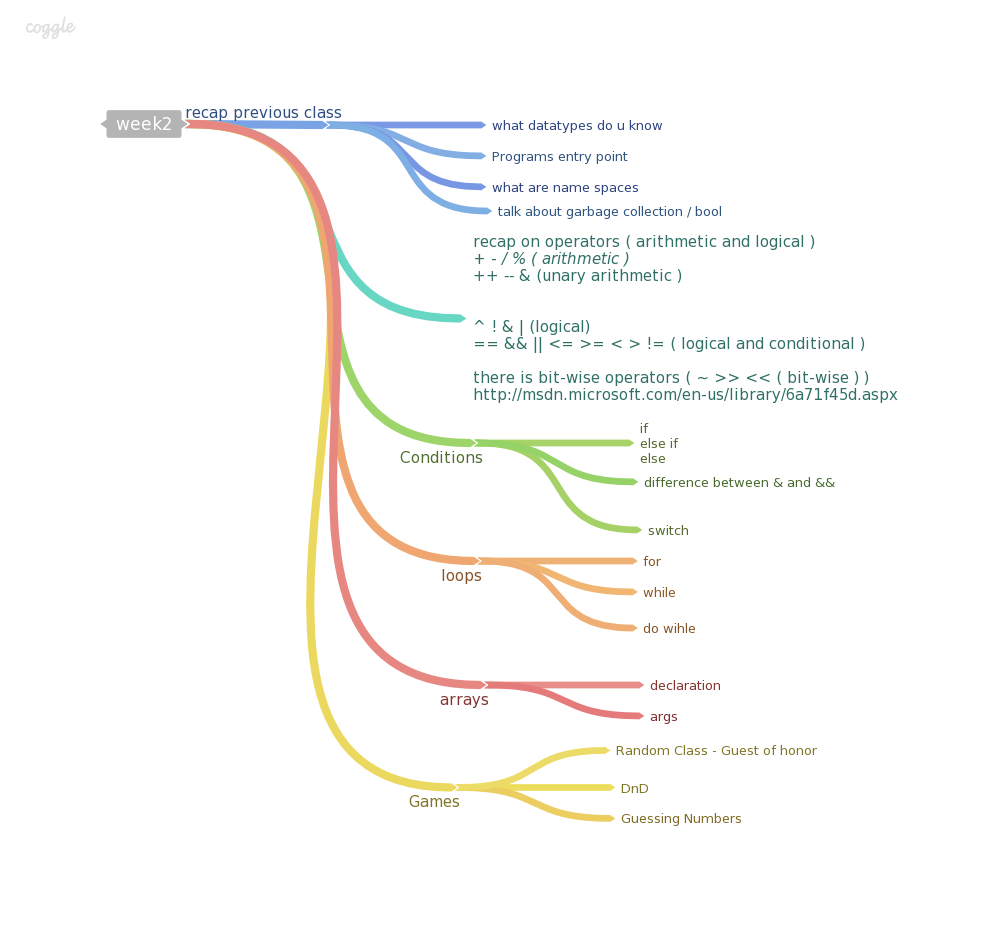
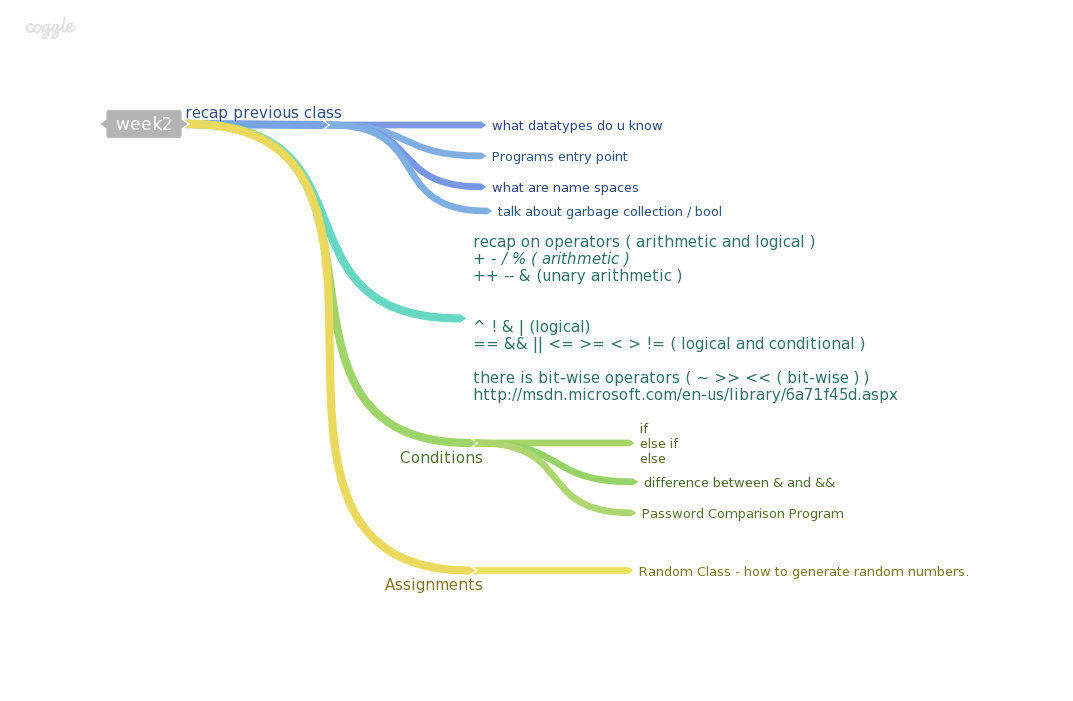
updated weeks

Changed region(s): [[0.0928, 0.1198, 0.8972, 0.8987], [0.3713, 0.689, 0.4022, 0.719], [0.0309, 0.03, 0.0619, 0.0599]]

diff --git a/week2/code.cs b/week2/code.cs
@@ -74,73 +74,6 @@ namespace week_2
 				Console.WriteLine("At least one of the methods returned false.");
 			}
 			
-			
-			
-			//switch cases
-			
-			char caseSwitch = 'A';
-			switch (caseSwitch)
-			{
-			    case 'A':
-			        Console.WriteLine("Case 1");
-			        break;
-			    case 'B':
-			        Console.WriteLine("Very good");
-			        break;
-				case 'C':
-					Console.WriteLine("Good");
-					break;    
-				default:
-			        Console.WriteLine("Default case");
-			        break;
-			}
-			
-			
-			
-			
-
-
-            //For Loops
-            for (int i = 0; i < 10; i++)
-            {
-                Console.WriteLine(i);
-            }
-
-            int z = 10;
-
-			
-			
-            //While Loops
-            while (z > 0)
-            {
-                z--;
-                Console.WriteLine(z);
-            };
-
-
-            //Do While
-            do
-            {
-                z++;
-                Console.WriteLine(z);
-            } while (z < 10);
-
-			
-			
-			
-			//basic arrays
-
-            int[] int_array  = {1,2,3,4};
-            int[] int_array2 = new int[100];
-
-
-
-            //Args
-            for (int i = 0; i < args.Length; i++)
-            {
-                Console.WriteLine(args[i]);
-            }
-			
         }
 		
 		static bool Method1()

diff --git a/week3/code.cs b/week3/code.cs
@@ -1,0 +1,75 @@
+using System;
+
+namespace week_2
+{
+    class Program
+    {
+        static void Main(string[] args)
+        {
+           //switch cases
+			
+			char caseSwitch = 'A';
+			switch (caseSwitch)
+			{
+			    case 'A':
+			        Console.WriteLine("Case 1");
+			        break;
+			    case 'B':
+			        Console.WriteLine("Very good");
+			        break;
+				case 'C':
+					Console.WriteLine("Good");
+					break;    
+				default:
+			        Console.WriteLine("Default case");
+			        break;
+			}
+
+			
+            //For Loops
+            for (int i = 0; i < 10; i++)
+            {
+                Console.WriteLine(i);
+            }
+
+            int z = 10;
+
+			
+			
+            //While Loops
+            while (z > 0)
+            {
+                z--;
+                Console.WriteLine(z);
+            };
+
+
+            //Do While
+            do
+            {
+                z++;
+                Console.WriteLine(z);
+            } while (z < 10);
+
+			
+			
+			
+			//basic arrays
+
+            int[] int_array  = {1,2,3,4};
+            int[] int_array2 = new int[100];
+
+
+
+            //Args
+            for (int i = 0; i < args.Length; i++)
+            {
+                Console.WriteLine(args[i]);
+            }
+			
+        }
+		
+    }
+}
+
+        

diff --git a/week2/assignments.md b/week2/assignments.md
@@ -1,15 +1,18 @@
 #Assignments
 
 ## Resturant Calculator :
-2. reads the names of friends. [ 4 friends ].
-3. read meal coast for each friend. 
-5. read service costs.
-6. read the amount of tips to leave.
-7. print each of your friends name , and total costs.
+1. reads the names of friends. [ 4 friends ].
+2. read meal coast for each friend. 
+3. read service costs.
+4. read the amount of tips to leave.
+5. print each of your friends name , and total costs.
+6. write values you used ("friends names , prices") and the result of the calculation in a text file , and send it with the code.
 
 **use floats for all prices**
 
 total cost = meal cost + ( tax % of the meal cost ) + (service + tips) divided by number of friends.
+
+
 
 
 ##How lucky is your computer? :

diff --git a/week2/README.md b/week2/README.md
@@ -6,22 +6,14 @@
 ##Conditions
 - If , if else , else.
 - Diffrence between & and &&.
-- Switch.
+- Password Comparison Program.
 
-##loops
-- for , while , do while .
 
-##arrays
-- basic arrays.
-- args 
-
-## Games 
-guess the number.
-simple DnD.
+- How to generate a random number.
 
 ##Things mentioned but not fully explained
 - methods.
-- Random class.
+- Random class. 
 - static.
 
 ![alt text](https://raw.github.com/TheNightPhoenix/AdvancedProgramming/master/week2/map.png "Class Mind Map")

diff --git a/week3/README.md b/week3/README.md
@@ -1,0 +1,28 @@
+#Week 3
+
+- Recap prev class.
+
+##Conditions
+- Switch
+
+##Loops
+- for loop.
+- while loop.
+- do while.
+
+##Arrays
+- Declaration.
+- args.
+
+##CMD
+- opening / running application from cmd.
+- writing the output of the application into a text file.
+
+##Things mentioned but not fully explained
+- methods.
+- Random class. 
+- static.
+
+![alt text](https://raw.github.com/TheNightPhoenix/AdvancedProgramming/master/week3/map.png "Class Mind Map")
+
+
